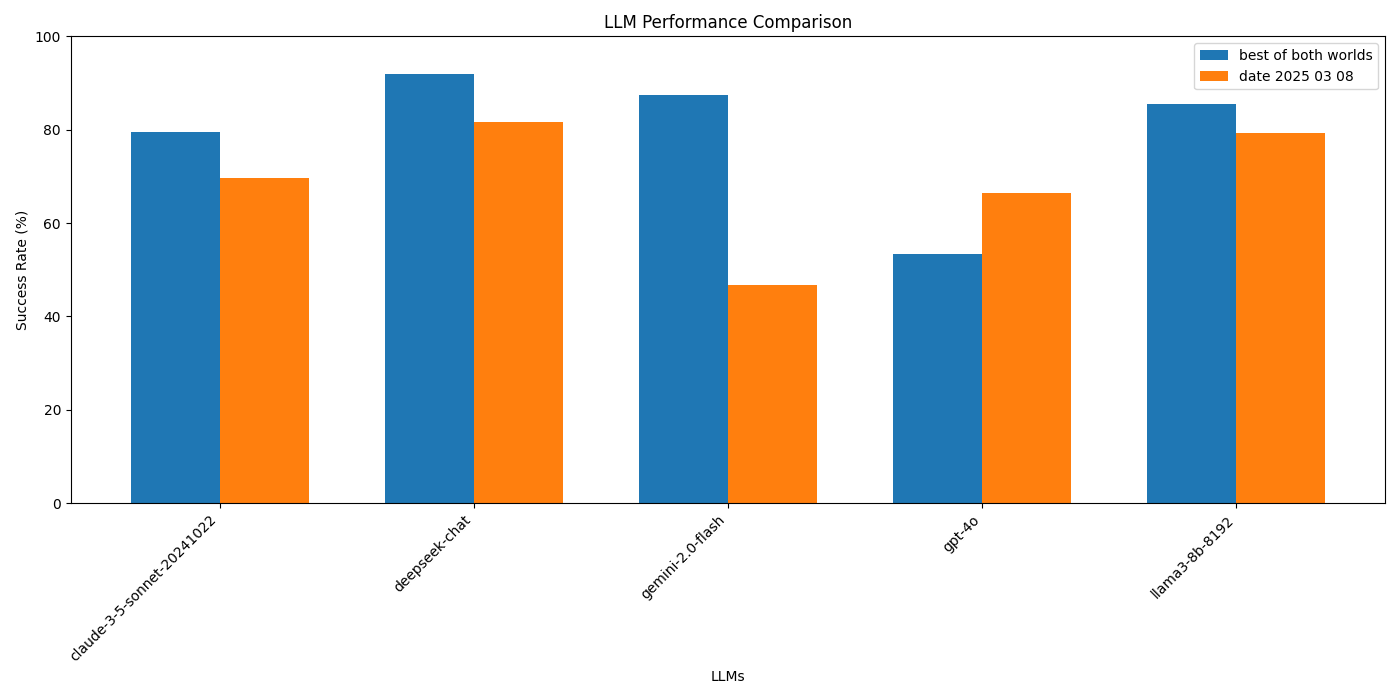
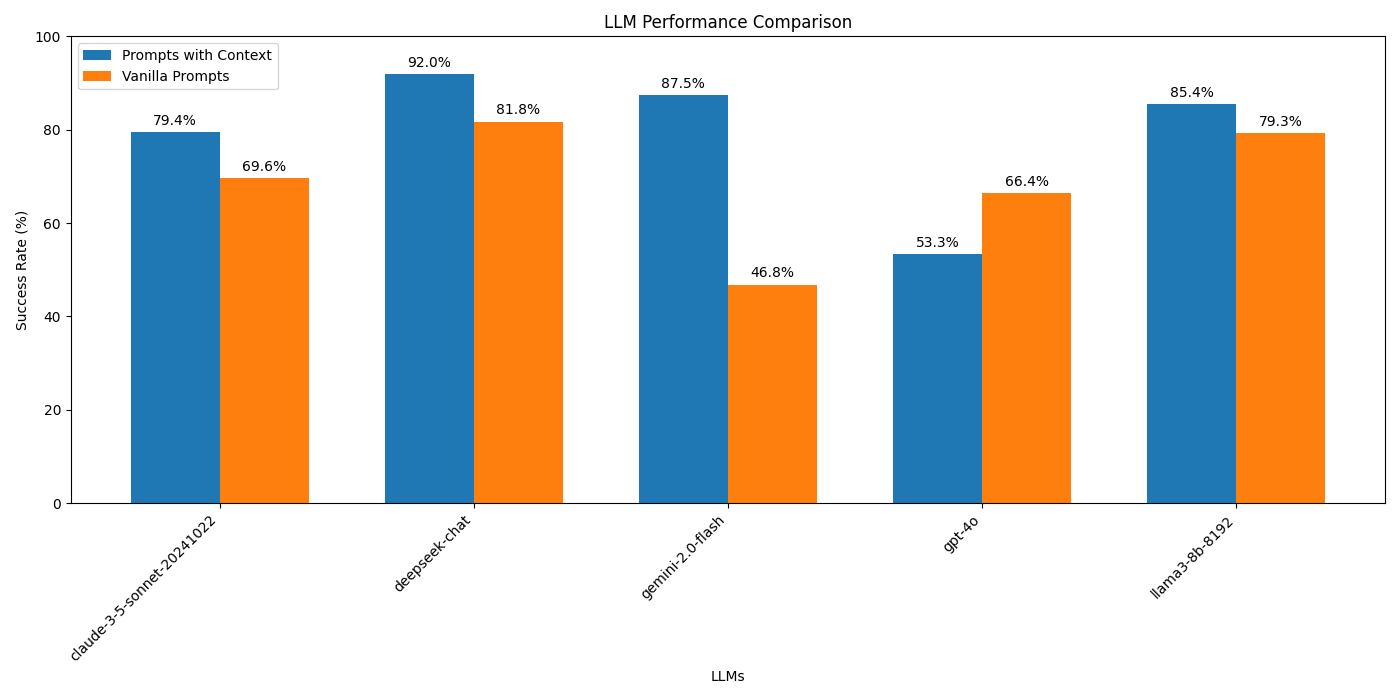
added percentages, cleaned up axis titles

diff --git a/success_rate.py b/success_rate.py
@@ -87,6 +87,11 @@ def create_overall_performance_bar_graph(json_file, output_dir, file_prefix):
 
     plt.figure(figsize=(12, 6))  # Adjust figure size if needed
     plt.bar(llms, success_rates, color='skyblue')
+
+    # Add labels to the bars
+    for i, rate in enumerate(success_rates):
+        plt.text(i, rate + 1, f"{rate:.1f}%", ha='center', va='bottom')
+
     plt.xlabel("LLMs")
     plt.ylabel("Success Rate (%)")
     plt.title("Overall LLM Performance")
@@ -125,6 +130,11 @@ def create_prompt_category_bar_graph(json_file, output_dir, file_prefix):
         x = [pos + (i - n_llms / 2 + bar_width/2) * bar_width for pos in index_positions]  #shift positions for each LLM
         success_rates = [data[category][llm]["success_rate"] for category in categories]
         plt.bar(x, success_rates, bar_width, label=llm)
+
+        # remove percentages in prompt category graph
+        # # Add labels to the bars
+        # for j, rate in enumerate(success_rates):
+        #      plt.text(x[j], rate + 1, f"{rate:.1f}%", ha='center', va='bottom')
 
     # Customize the plot
     plt.xlabel("Prompt Category", fontsize=14)
@@ -168,8 +178,38 @@ def create_comparison_bar_graph(file1, file2, output_dir, filename="comparison_g
     width = 0.35  # the width of the bars
 
     fig, ax = plt.subplots(figsize=(14, 7))
-    rects1 = ax.bar(x - width/2, success_rates1, width, label=os.path.basename(file1).replace("_overall_llm_performance.json", "").replace("_", " "))
-    rects2 = ax.bar(x + width/2, success_rates2, width, label=os.path.basename(file2).replace("_overall_llm_performance.json", "").replace("_", " "))
+    # Get the filenames without the extensions
+    file1_name = os.path.basename(file1).replace("_overall_llm_performance.json", "").replace("_", " ")
+    file2_name = os.path.basename(file2).replace("_overall_llm_performance.json", "").replace("_", " ")
+
+    # Define specific labels
+    if "date 2025 03 08" in file1_name.lower():
+        file1_label = "Vanilla Prompts"
+    else:
+        file1_label = "Prompts with Context"  #default labeling
+
+    if "date 2025 03 08" in file2_name.lower():
+        file2_label = "Vanilla Prompts"
+    else:
+        file2_label = "Prompts with Context" #default labeling
+
+    # Apply bar labels using filenames from the bar graphs
+    rects1 = ax.bar(x - width/2, success_rates1, width, label=file1_label)
+    rects2 = ax.bar(x + width/2, success_rates2, width, label=file2_label)
+
+    # Add labels to the bars
+    def autolabel(rects):
+        """Attach a text label above each bar in *rects*, displaying its height."""
+        for rect in rects:
+            height = rect.get_height()
+            ax.annotate(f'{height:.1f}%',
+                        xy=(rect.get_x() + rect.get_width() / 2, height),
+                        xytext=(0, 3),  # 3 points vertical offset
+                        textcoords="offset points",
+                        ha='center', va='bottom')
+
+    autolabel(rects1)
+    autolabel(rects2)
 
     # Add some text for labels, title and custom x-axis tick labels, etc.
     ax.set_ylabel('Success Rate (%)')
@@ -184,57 +224,6 @@ def create_comparison_bar_graph(file1, file2, output_dir, filename="comparison_g
 
     plt.savefig(os.path.join(output_dir, filename))
     plt.close()
-
-# removed prompt category comparison graph
-# def create_comparison_prompt_category_graph(file1, file2, output_dir, filename="comparison_prompt_category_graph.png"):
-#     """
-#     Creates a grouped bar graph comparing prompt category success rates from two JSON files.
-#     """
-#     with open(file1, "r") as f:
-#         data1 = json.load(f)
-#     with open(file2, "r") as f:
-#         data2 = json.load(f)
-
-#     # Extract categories and LLMs
-#     categories1 = list(data1.keys())[:-2]
-#     categories2 = list(data2.keys())[:-2]
-#     all_categories = sorted(list(set(categories1 + categories2)))  # Combine and sort categories
-
-#     # Extract LLMs from the first category (assuming consistent LLMs across categories)
-#     llms1 = list(data1.get(categories1[0], {}).keys()) if categories1 else []
-#     llms2 = list(data2.get(categories2[0], {}).keys()) if categories2 else []
-#     all_llms = sorted(list(set(llms1 + llms2)))
-
-#     n_llms = len(all_llms)
-#     bar_width = 0.8 / (2 * n_llms)  # Reduced bar width to accommodate both files
-#     group_width = 1
-
-#     plt.figure(figsize=(18, 8))  # Adjusted figure size for better readability
-#     index_positions = np.arange(len(all_categories))
-
-#     # Iterate through LLMs and plot bars for both files
-#     for i, llm in enumerate(all_llms):
-#         # Calculate x positions for the bars for file1
-#         x1 = [pos + (i - n_llms / 2) * 2 * bar_width - bar_width/2 for pos in index_positions]
-#         success_rates1 = [data1.get(category, {}).get(llm, {}).get("success_rate", 0) for category in all_categories]
-#         plt.bar(x1, success_rates1, bar_width, label=f"{os.path.basename(file1).replace('_prompt_category_analysis.json', '').replace('_', ' ')} - {llm}")
-
-#         # Calculate x positions for the bars for file2
-#         x2 = [pos + (i - n_llms / 2) * 2 * bar_width + bar_width/2 for pos in index_positions]
-#         success_rates2 = [data2.get(category, {}).get(llm, {}).get("success_rate", 0) for category in all_categories]
-#         plt.bar(x2, success_rates2, bar_width, label=f"{os.path.basename(file2).replace('_prompt_category_analysis.json', '').replace('_', ' ')} - {llm}")
-
-#     # Customize the plot
-#     plt.xlabel("Prompt Category", fontsize=14)
-#     plt.ylabel("Success Rate (%)", fontsize=14)
-#     plt.title("LLM Performance by Prompt Category Comparison", fontsize=16)
-#     plt.xticks(index_positions, all_categories, rotation=45, ha="right")
-#     plt.ylim(0, 100)
-#     plt.legend(loc='upper left', bbox_to_anchor=(1, 1))  # Place legend outside the plot
-#     plt.tight_layout(rect=[0, 0, 0.85, 1])  # Adjust layout to accommodate legend
-
-#     plt.savefig(os.path.join(output_dir, filename))
-#     plt.close()
 
 
 def main():

diff --git a/README.md b/README.md
@@ -13,3 +13,12 @@ after that, run `success_rate.py` to produce success rate graps for the two expe
 `distance.py` gets the manhattan distance and euclidean distance of the outputs from a directory
 
 `cosine_analysis.py` analyzes the cosine file and outputs the average of it across the results of the llms that succeeded
+
+`success_rate.py` generates:
+1. success rates for LLMs of vanila prompts (no added context)
+    1. break down by LLM
+    2. Overall performance of each LLM
+2. success rates for LLMs of prompts with context
+    1. break down by LLM
+    2. Overall performance of each LLM
+3. Comparison graph of overall performance of LLMs between context-free and context runs.
